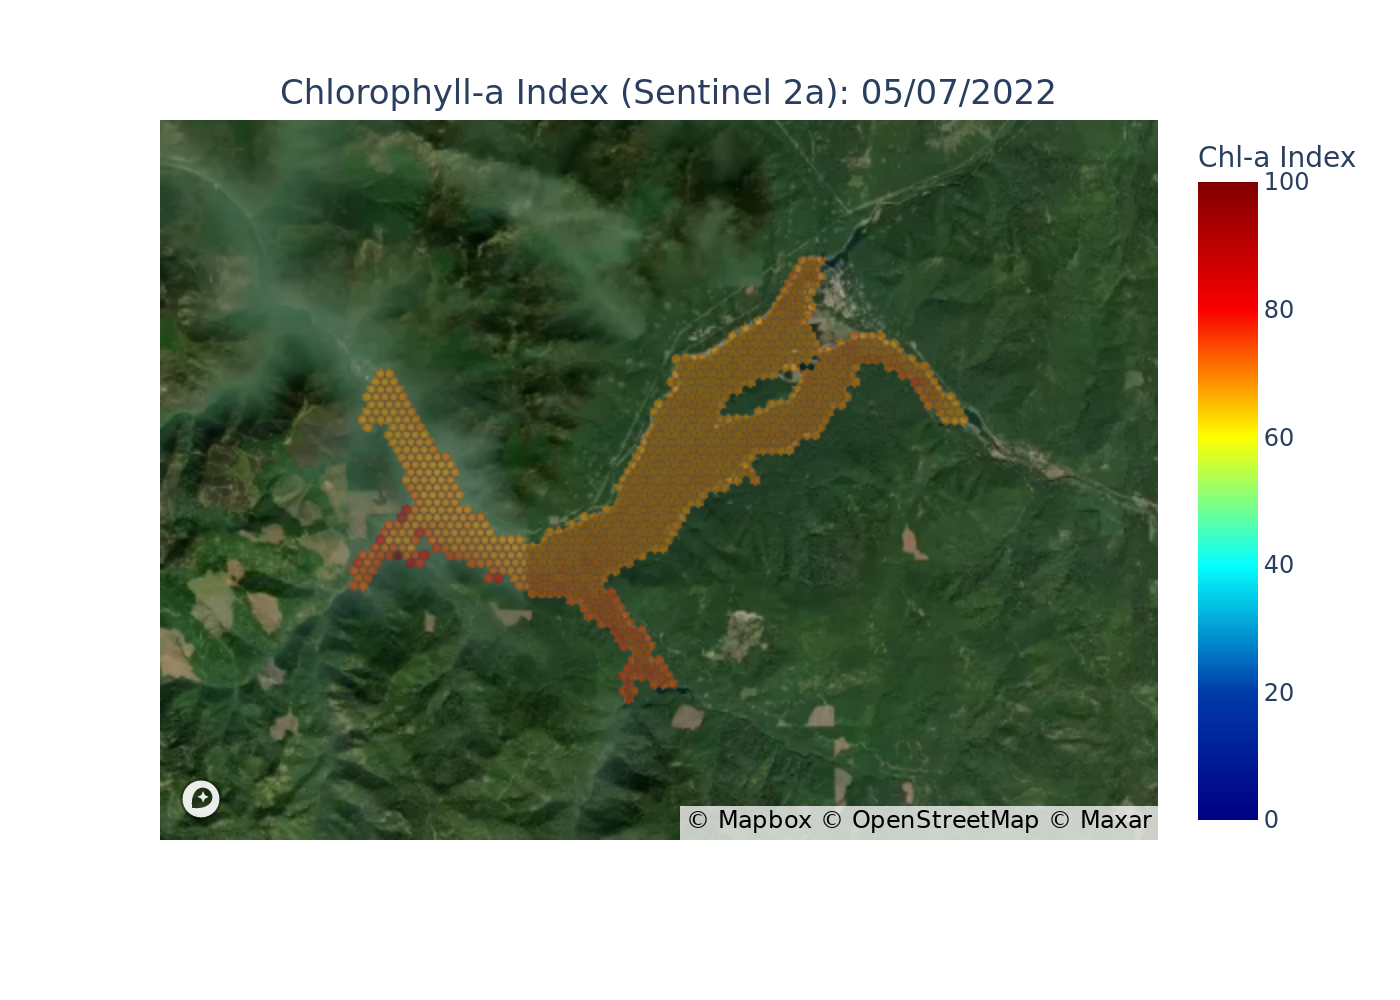
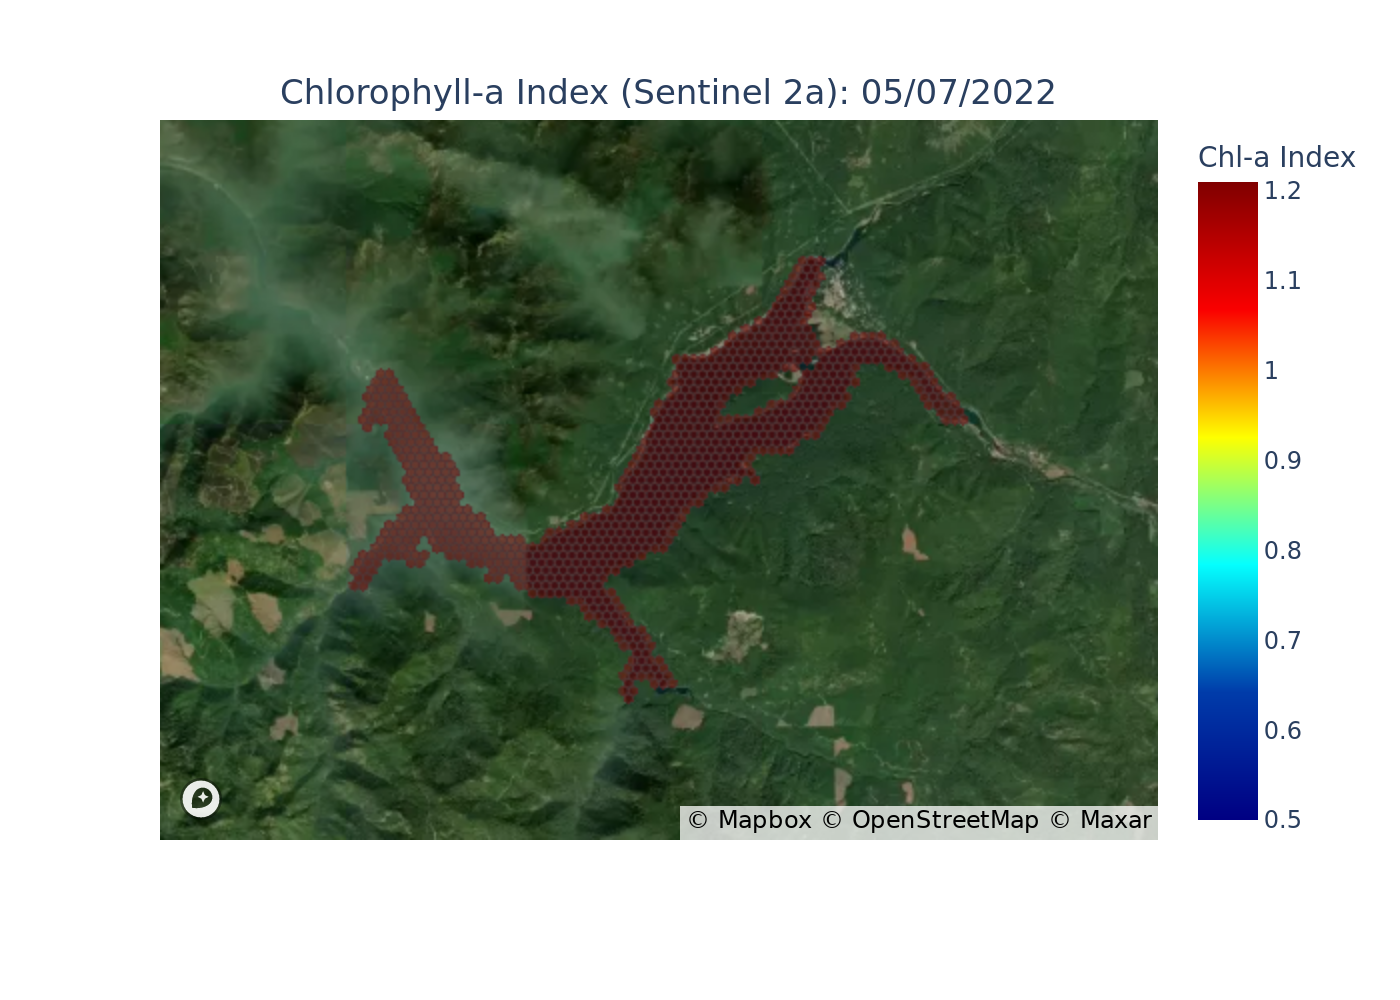
daily blog update

diff --git a/_posts/2022-05-13-blog054.md b/_posts/2022-05-13-blog054.md
@@ -1,0 +1,45 @@
+---
+title: "May 13, 2022"
+excerpt: "HAB update"
+image: /assets/images/detroit.jpg
+tags: 
+  - hab
+  - prediction
+---
+
+Click here to see the live and interactive [Harmful Algal Bloom dashboard](https://detroitlake.clrwater.io/).
+
+## 7-day Look Ahead Bloom Forecast
+Below are pie charts describing the __probability of a cyanobacterial bloom__. The one on the left describes the predictions from two weeks ago, and the one on the right describes the latest prediction, for the coming week. 
+![image-center]({{ site.url }}{{ site.baseurl }}/assets/images/20220513/Fig_prediction.png)
+__Probability of occurrence (%) of an algal bloom from two weeks ago (left) and for the next 7 days (right).__
+
+## Hotspot Analysis - Chlorophyll-a
+This map shows you the latest estimates of __chlorophyll-a__ from the Sentinel 2a satellite. Note that the color scale is normalized to highlight the hotspots in the image relative to yearly maxima and minima. The colorscale does not provide an indication of the absolute amount of chlorophyll-a in the water and should be interpreted as an "index" of chlorophyll-a.
+![image-center]({{ site.url }}{{ site.baseurl }}/assets/images/20220513/Fig_chla_week.png){: .align-center}
+<br clear="all" />
+__Latest chlorophyll-a map from the Sentinel 2a satelllite.__
+
+## Hotspot Analysis - CyAN
+This map shows you the latest estimates of the concentration of cyanobacteria (cells/ml) from the EPA CyAN program.
+![image-center]({{ site.url }}{{ site.baseurl }}/assets/images/20220513/Fig_cyan.png){: .align-center}
+<br clear="all" />
+__Latest CyAN map from the EPA.__
+
+
+## Where we are in the season
+This plot shows the __historical expectation for HAB risk__ over the year. Use this chart to see where we are in the season (identified by the vertical red line). 
+![image-center]({{ site.url }}{{ site.baseurl }}/assets/images/20220513/Fig_climatology.png){: .     align-center}
+__Harmful algal bloom risk over the year__.
+
+## How rainy has it been? 
+We know that in general certain weather conditions promote the likelihood of HABs. Check this chart to see 
+how __wet__ it is, relative to past years. This is simply adding up each day's rainfall, for each year. If the red line is below the orange line, then this year is dryer than average.
+![image-center]({{ site.url }}{{ site.baseurl }}/assets/images/20220513/Fig_precip_cumsum.png){: .     align-center}
+__Precipitation at the lake compared to previous years__.
+
+## How hot has it been? 
+We know that in general certain weather conditions promote the likelihood of HABs. Check this chart to see 
+how __hot__ it is, relative to past years. This is simply adding up each day's temperature, for each year. If the red line is above the orange line, this year is hotter than average.
+![image-center]({{ site.url }}{{ site.baseurl }}/assets/images/20220513/Fig_temp_cumsum.png){: .     align-center}
+__Air temperature at the lake compared to previous years__.
